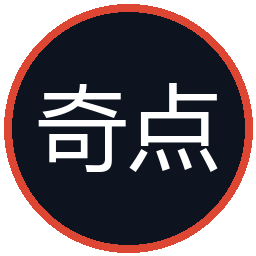
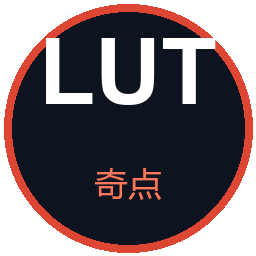
style: LUT primary brand with Qidian team detail (v2.1.1)

Changed region(s): [[0.125, 0.125, 0.8438, 0.7812]]

diff --git a/renderer/js/registry3.js b/renderer/js/registry3.js
@@ -340,7 +340,7 @@
       const groups = [...new Set(ExtLib.LEARN.map(x => x.g))];
       d.innerHTML =
         `<div class="w-hero"><h1>甘肃省「海丰杯」高校网络安全技能大赛</h1>
-          <p>面向奇点战队的针对性备战地图。大赛采用解题模式 CTF 赛制，综合考察
+          <p>面向 LUT 信息安全协会 · 奇点战队的针对性备战地图。大赛采用解题模式 CTF 赛制，综合考察
           <b>国产商用密码应用、工业信息安全、网络攻防渗透、数据取证逆向、应急响应</b> 五大方向。</p></div>` +
         groups.map(g => T.card(g, `<div class="grid-cards">${ExtLib.LEARN.filter(x => x.g === g).map(x =>
           `<div class="tcard"><h4>${esc(x.name)}</h4><p>${esc(x.desc)}</p></div>`).join('')}</div>`)).join('') +
@@ -362,8 +362,8 @@
       const d = document.createElement('div');
       d.innerHTML =
         `<div class="w-hero">
-          <h1>奇点 CTF 工具合集 <span style="font-size:13px;color:var(--fg-mute);font-weight:400">v2.1</span></h1>
-          <p>奇点战队（Singularity）专用 · 为甘肃省「海丰杯」高校网络安全技能大赛打造的一体化解题工作台。</p>
+          <h1>LUTCTF 工具合集 <span style="font-size:13px;color:var(--fg-mute);font-weight:400">v2.1.1</span></h1>
+          <p>LUT 信息安全协会 · 奇点战队（Singularity）专用 · 为甘肃省「海丰杯」高校网络安全技能大赛打造的一体化解题工作台。</p>
         </div>` +
         T.card('设计原则', `<div class="result">
           <b>① 完全离线</b> —— 所有算法本地实现（含 MD5 / SM3 / SM4 / RSA / AES / LSB / FFT），不依赖任何外部 API，比赛断网可用；<br><br>

diff --git a/renderer/js/app.js b/renderer/js/app.js
@@ -156,9 +156,9 @@ const App = (function () {
       `<div class="welcome-inner">
         <div class="welcome-head">
           <div class="wh-main">
-            <div class="eyebrow">SINGULARITY · CTF</div>
-            <h1>工具合集 <span>v2.1</span></h1>
-            <p>面向奇点战队与甘肃省“海丰杯”的离线解题工作台。收录编解码、密码学、隐写、取证、Web、二进制与应急响应，全部本地运行。</p>
+            <div class="eyebrow">LUT · SINGULARITY</div>
+            <h1>LUTCTF 工具合集 <span>v2.1.1</span></h1>
+            <p><b>LUT 信息安全协会</b> · <b>奇点战队</b> 的离线解题工作台。收录编解码、密码学、隐写、取证、Web、二进制与应急响应，全部本地运行。</p>
           </div>
           <div class="welcome-stats">
             <div class="w-stat"><b>${total}</b><span>内置工具</span></div>

diff --git a/renderer/index.html b/renderer/index.html
@@ -3,7 +3,7 @@
 <head>
 <meta charset="UTF-8">
 <meta http-equiv="Content-Security-Policy" content="default-src 'self'; script-src 'self' 'unsafe-inline'; style-src 'self' 'unsafe-inline'; img-src 'self' data: blob:; frame-src http://127.0.0.1:*;">
-<title>奇点 CTF 工具合集 · 奇点战队</title>
+<title>LUTCTF 工具合集 · 奇点战队</title>
 <link rel="stylesheet" href="css/style.css">
 </head>
 <body>
@@ -11,9 +11,9 @@
 <!-- ===== 标题栏 ===== -->
 <header class="titlebar">
   <div class="tb-left">
-    <div class="logo" id="logo">奇点</div>
+    <div class="logo" id="logo">LUT</div>
     <div class="tb-title">
-      <span class="appname">奇点 CTF 工具合集</span>
+      <span class="appname">LUTCTF 工具合集</span>
       <span class="appsub">奇点战队 · 海丰杯专版</span>
     </div>
   </div>

diff --git a/main.js b/main.js
@@ -1,6 +1,6 @@
 /* ============================================================
    main.js — Electron 主进程
-   奇点战队 · CTF 工具合集
+   LUT 信息安全协会 · 奇点战队 · CTF 工具合集
    ============================================================ */
 const path = require('path');
 const http = require('http');
@@ -167,7 +167,7 @@ function createWindow() {
 
   /* 开发环境快捷键（可选） */
   win.webContents.on('did-finish-load', () => {
-    win.setTitle('奇点 CTF 工具合集 · 奇点战队');
+    win.setTitle('LUTCTF 工具合集 · 奇点战队');
   });
 
   /* 加载失败兜底：避免出现「进程在跑但没有窗口」的黑洞情况 */

diff --git a/README.md b/README.md
@@ -1,23 +1,23 @@
-# 奇点 CTF 工具合集 · 奇点战队
+# LUTCTF 工具合集 · LUT 信息安全协会 / 奇点战队
 
-面向 **奇点战队（Singularity）** 与 **甘肃省「海丰杯」高校网络安全技能大赛** 的一体化解题工作台。
+面向 **LUT 信息安全协会 · 奇点战队（Singularity）** 与 **甘肃省「海丰杯」高校网络安全技能大赛** 的一体化解题工作台。
 
-![奇点 CTF 工具合集](assets/screenshot.png)
+![LUTCTF 工具合集](assets/screenshot.png)
 
 > 49 个内置工具入口 · 集成 EBCTFCodeBox 811 函数 · 完全离线 · 数据不外传 · 针对国产商用密码（SM3/SM4）专项覆盖
-> v2.1 新增：奇点战队品牌、EBCTFCodeBox 完整密码学工具箱（Apache-2.0，811 函数）
+> v2.1 新增：LUT 主品牌 + 奇点战队小细节、EBCTFCodeBox 完整密码学工具箱（Apache-2.0，811 函数）
 > v2.0 新增：一把梭智能解码、配方链、字符显示器、收藏夹与侧栏计数、外部工具启动台、Base36/45/62
 > v1.1 新增：PCAP/PCAPNG 流量分析、PNG 宽高修复、Web 字典爆破、Cookie 越权、AES-CBC 原始字节、ELF/PE checksec、Pwn 速查、QR 识别、Brainfuck、核心价值观、海丰杯 2025 题目复盘
 
 ## 下载
 
-[**GitHub Releases · v2.1.0**](https://github.com/123wang388/LUTCTF-Toolkit/releases/tag/v2.1.0) → 下载 `Qidian-CTF-Toolkit-2.1.0-win-x64.zip`，解压后双击 `奇点 CTF 工具合集.exe`（或 `启动（推荐）.bat`）。**不需要 Node.js / Java / Python。**
+[**GitHub Releases · v2.1.1**](https://github.com/123wang388/LUTCTF-Toolkit/releases/tag/v2.1.1) → 下载 `LUTCTF-Toolkit-2.1.1-win-x64.zip`，解压后双击 `LUTCTF 工具合集.exe`（或 `启动（推荐）.bat`）。**不需要 Node.js / Java / Python。**
 
 ---
 
 ## 一、快速开始
 
-**方式一（推荐）**：双击桌面上的 **「奇点 CTF 工具合集」** 快捷方式即可启动。
+**方式一（推荐）**：双击桌面上的 **「LUTCTF 工具合集」** 快捷方式即可启动。
 
 **方式二**：进入项目目录 `LUTCTF-Toolkit`，双击 `start.bat`。
 
@@ -29,7 +29,7 @@ npm start          # 或: .\node_modules\electron\dist\electron.exe .
 ```
 
 **方式四（发给同学 / 下载即用）**：
-从 [Releases](https://github.com/123wang388/LUTCTF-Toolkit/releases/tag/v2.1.0) 下载 `Qidian-CTF-Toolkit-2.1.0-win-x64.zip`，解压后双击 `奇点 CTF 工具合集.exe` 或 `启动（推荐）.bat`。**不需要安装 Node.js、Java 或 Python**；首次运行如被 SmartScreen 拦截，选择「更多信息 → 仍要运行」。
+从 [Releases](https://github.com/123wang388/LUTCTF-Toolkit/releases/tag/v2.1.1) 下载 `LUTCTF-Toolkit-2.1.1-win-x64.zip`，解压后双击 `LUTCTF 工具合集.exe` 或 `启动（推荐）.bat`。**不需要安装 Node.js、Java 或 Python**；首次运行如被 SmartScreen 拦截，选择「更多信息 → 仍要运行」。
 
 > 首次启动若被 Windows Defender SmartScreen 拦截，选择「更多信息 → 仍要运行」即可（未签名的自编译应用常见现象）。
 
@@ -188,4 +188,4 @@ LUTCTF-Toolkit/
 
 ---
 
-**Built for 奇点战队（Singularity） · 为海丰杯而生**
+**Built for LUT 信息安全协会 · 奇点战队（Singularity） · 为海丰杯而生**
